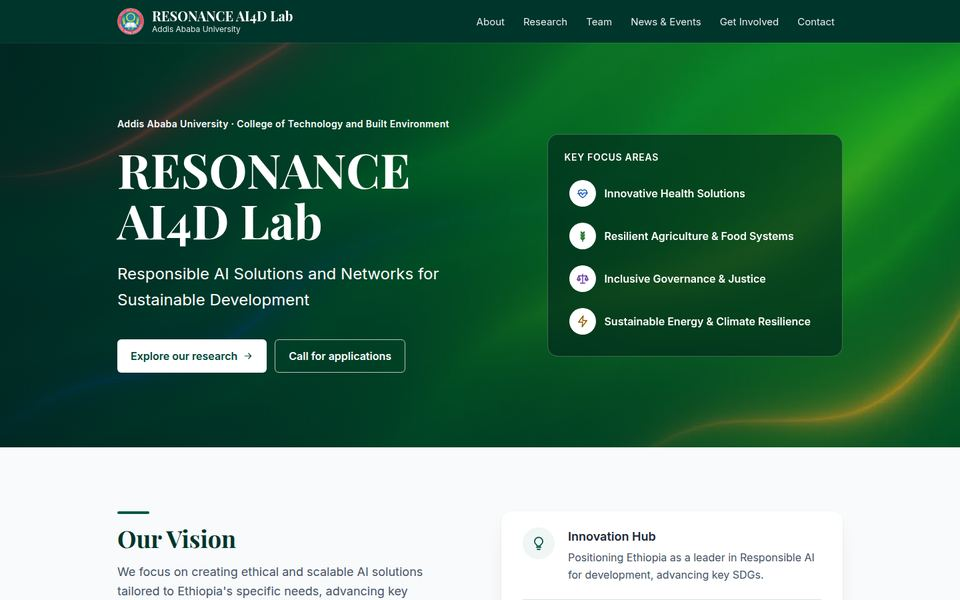
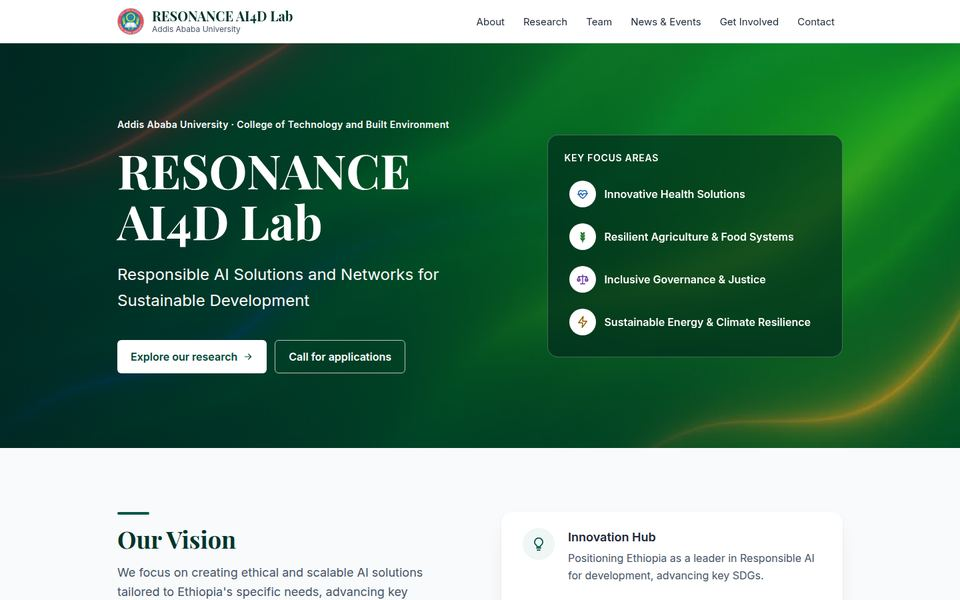
Update README for the white header and team strip
New screenshots (white header, Our Team strip), design and technical
notes for the moving strip and its accessibility safeguards, a known
limitation about moving content, refreshed Lighthouse figures (mobile
97/100/100/100, LCP 2.2 s, 268 KB; desktop 100 across) and the second
review round in the time table (about 3 h 25 min in total).

diff --git a/README.md b/README.md
@@ -19,7 +19,7 @@ A review of the [RESONANCE AI4D Lab website](https://sites.google.com/aait.edu.e
 
 <details><summary>Show the full prototype page (desktop)</summary>
 <br>
-<img src="docs/prototype/after-full-page.jpg" alt="Full prototype homepage: hero, Our Vision, Key Focus Areas, Ready to Join Our Team banner, Lab Leadership, partners and footer." width="560">
+<img src="docs/prototype/after-full-page.jpg" alt="Full prototype homepage: white header, hero, Our Vision, Key Focus Areas, Ready to Join Our Team banner, Our Team strip, partners and footer." width="560">
 </details>
 
 ---
@@ -73,13 +73,13 @@ On top of that, the homepage still says applications "are now open" for a call t
 
 | Homepage, mobile (Lighthouse 12, simulated slow 4G) | Current site | Prototype |
 |---|---|---|
-| Performance / Accessibility / Best practices / SEO | 34 / 94\* / 79 / 83 | **95 / 100 / 100 / 100** |
-| Largest Contentful Paint | 27.3 s | **2.7 s** |
-| Page weight / requests | 5.6 MB / 65 | **266 KB / 18** |
+| Performance / Accessibility / Best practices / SEO | 34 / 94\* / 79 / 83 | **97 / 100 / 100 / 100** |
+| Largest Contentful Paint | 27.3 s | **2.2 s** |
+| Page weight / requests | 5.6 MB / 65 | **268 KB / 18** |
 | axe-core violations (WCAG 2.2 AA) | not measurable inside the iframes | **0** |
 
 \* Lighthouse can't audit inside the current site's cross-origin iframes, so its 94 overstates the real accessibility.
-Desktop prototype: **100 / 100 / 100 / 100**, with the main content visible in 0.6 s. The prototype was served with gzip (`npx serve out`), as any real host would serve it.
+Desktop prototype: **100 / 100 / 100 / 100**, with the main content visible in 0.7 s. The prototype was served with gzip (`npx serve out`), as any real host would serve it.
 
 ---
 
@@ -90,14 +90,14 @@ Desktop prototype: **100 / 100 / 100 / 100**, with the main content visible in 0
 - **Kept from the current site:**
   - Its green aurora hero image, recompressed from a 1.7 MB PNG to 16 KB (desktop) and 6 KB (phone) WebP.
   - The lab name in Playfair Display, and the dark brand green `#005747`.
-  - The section names and their order: Our Vision → Key Focus Areas → Ready to Join Our Team? → Our Partners.
+  - The section names and their order: Our Vision → Key Focus Areas → Ready to Join Our Team? → Our Partners, with an "Our Team" strip added before the partners.
   - The theme colour-coding (health blue, agriculture green, governance purple, energy amber).
 - **Typography:** five font families become two, both already used by the lab: **Playfair Display** for headings and **Inter** for text, self-hosted (about 70 KB).
 - **First screen:** says who, where and what (the name, the full name, Addis Ababa University and CTBE, and the four focus areas), with two clear actions. The current hero holds only the name.
-- **Navigation:** a single row of text links in the header, including Contact. That replaces the hidden "Home ▾" dropdown and the boxy button rows, which changed from page to page and never included Contact. **Publications is left out** until that page lists real publications (it currently shows "Title goes here").
+- **Navigation:** a white header with a single row of text links, including Contact. That replaces the hidden "Home ▾" dropdown and the boxy button rows, which changed from page to page and never included Contact. **Publications is left out** until that page lists real publications (it currently shows "Title goes here").
 - **Honest call status:** the "Ready to Join Our Team?" banner works out *Open* or *Closed* from the call's dates, in Addis Ababa time. While a call is open it shows the site's own wording and the Apply button. Today it says the 2025/26 call closed on 11 August 2025 and points to News & Events. A future call needs only its title, dates and links updated in the content file; the status then switches by itself.
-- **Calm colour:** theme colours appear only as small icon accents and leadership initials, never as large tinted areas. The banner's gradient ends on a deeper green, so white text stays at 4.9:1 or more (the original lime end is 2.05:1).
-- **People without fake photos:** the Director and the four thematic leads appear as equal cards with two-letter initials in their theme colour. Real photos (with consent) should replace them, and no stock images are used.
+- **Calm colour:** theme colours appear only as small icon accents and team initials, never as large tinted areas. The banner's gradient ends on a deeper green, so white text stays at 4.9:1 or more (the original lime end is 2.05:1).
+- **The whole team, without fake photos:** all 11 people named on the Team page (the Director, four thematic leads and six core researchers) appear in one slowly moving strip, each with two-letter initials in their theme colour. The Director gets the same card as everyone else. Real photos (with consent) should replace the initials, and no stock images are used.
 - **SVG line icons** replace the emoji: they render the same on every device and are hidden from screen readers.
 - **Compact footer** with the lab's full name, email, postal address and page links. The partner logos sit above it at one small height, with alt text.
 - **No invented content.** Every string comes from the live site, and [src/content/home.ts](src/content/home.ts) notes the source page for each section. The placeholder phone number is left out.
@@ -108,7 +108,8 @@ Desktop prototype: **100 / 100 / 100 / 100**, with the main content visible in 0
   - Trade-off: the page still ships about 140 KB of compressed JavaScript, mostly the React runtime. A plain HTML page would be lighter, but performance still scores in the 90s on mobile.
 - **A content layer ready for a CMS.** All homepage text is typed data ([src/content/types.ts](src/content/types.ts), [src/content/home.ts](src/content/home.ts)) behind one async function, `getHomeContent()` in [src/lib/content.ts](src/lib/content.ts). Connecting a CMS means changing that one function; the components stay as they are.
 - **Little client-side JavaScript:**
-  - Only two components run in the browser: the phone menu (a button with `aria-expanded` that closes on Escape) and the call status.
+  - Only three small components run in the browser: the phone menu (a button with `aria-expanded` that closes on Escape), the call status, and the Pause/Play control of the team strip.
+  - The team strip's motion is pure CSS, so it runs before JavaScript loads. The copy that makes the loop seamless is hidden from screen readers. It pauses on hover and with a button (WCAG 2.2.2), and with reduced motion it stays still and scrolls by hand.
   - The call status uses `useSyncExternalStore`. The static HTML carries the status at build time, and the browser re-checks it against today's date during hydration, so an old build can never claim a call is open.
   - Everything else is server-rendered.
 - **Assets:**
@@ -126,16 +127,17 @@ Desktop prototype: **100 / 100 / 100 / 100**, with the main content visible in 0
   - axe-core: 0 violations at 390 and 1440 px.
   - No horizontal scroll at 320, 360, 390, 768, 1024 or 1440 px.
   - Call status tested with a mocked clock: open on 1 August 2025 and at 23:00 on 11 August, closed today.
+  - Team strip tested in the browser: it moves, Pause and hover stop it, it stays still with reduced motion, and screen readers get each of the 11 people once.
 
 ## Project structure
 
 ```
 src/
   app/            layout (fonts, metadata), page, global styles and design tokens, icons
-  components/     Header, MobileNav, Hero, Vision, ResearchThemes, JoinBanner,
-                  CallStatus, Leadership, Partners, SiteFooter, Icons, theme
+  components/     SiteHeader, MobileNav, Hero, Vision, ResearchThemes, JoinBanner,
+                  CallStatus, Team, TeamStrip, Partners, SiteFooter, Icons, theme
   content/        typed homepage content, sourced from the live site
-  lib/            getHomeContent() (CMS entry point), date helpers
+  lib/            getHomeContent() (CMS entry point), date and name helpers
 public/images/    optimised hero, AAU seal and partner logos
 docs/             assessment figures, PDF source (LaTeX), README screenshots
 ```
@@ -148,6 +150,7 @@ docs/             assessment figures, PDF source (LaTeX), README screenshots
 - **No real photography.** The hero uses the lab's existing abstract image, and people are shown as initials. Photos of the lab's people and work would do more than any design change.
 - **Content is as published in October 2026.** The phone number, publications and the next call are missing because the live site doesn't have them. These need the lab.
 - **The phone menu needs JavaScript**, though all pages are also linked in the footer. Call status is re-checked when the page loads, not while it stays open.
+- **The team strip moves on its own.** It can be paused and respects reduced motion, but some visitors find moving content distracting. A static grid would be the alternative if the lab prefers one.
 - **The React runtime** adds weight that a plain HTML page wouldn't have (see the technical decisions).
 - **Tested in Chrome (desktop and mobile emulation) with automated tools only.** No testing on physical devices, other browsers, or with a screen reader by a real user.
 - **No dark mode and no Amharic version.** Both would be worth considering for the lab's audience.
@@ -156,7 +159,7 @@ docs/             assessment figures, PDF source (LaTeX), README screenshots
 
 ## Time spent
 
-About **3 hours**, in one session (3–4 October 2026). The breakdown comes from commit timestamps:
+About **3 hours 25 minutes** of active work (3–4 October 2026). The breakdown comes from commit timestamps:
 
 | Phase | Time |
 |---|---|
@@ -165,6 +168,7 @@ About **3 hours**, in one session (3–4 October 2026). The breakdown comes from
 | First prototype: setup, content model, sections, checks | ~40 min |
 | Design rework after review (lab identity, less crowding, calmer colour), re-checks, assessment correction | ~50 min |
 | README, screenshots, clean-up, publishing | ~25 min |
+| Second review round: white header, moving team strip, README update | ~25 min |
 
 ## AI and development-tool disclosure
 
@@ -180,7 +184,7 @@ About **3 hours**, in one session (3–4 October 2026). The breakdown comes from
   - Set the step-by-step process.
   - Added issues to the assessment (emoji icons, boxy navigation, oversized footer, inconsistent fonts, the long header title, load time, the team avatars) and asked for the comparison with similar sites.
   - Chose the stack (Next.js and Tailwind, for a future CMS and admin area), the typefaces and the team display.
-  - Reviewed every iteration and directed the changes: from generic, to a copy of the old site, to the final middle ground; less crowding; the Director in the same row as the leads; no outline box; calmer focus-area colours.
+  - Reviewed every iteration and directed the changes: from generic, to a copy of the old site, to the final middle ground; less crowding; the Director in the same row as the leads; no outline box; calmer focus-area colours; the white header; a moving strip for the whole team.
 - **Errors were caught and corrected:** for example, the AI-drafted assessment first called the avatar colours "unrelated". Revisiting the site's identity after my design feedback showed that they follow the theme coding, and the assessment and PDF were corrected in a separate commit.
 
 **Development tools:**
